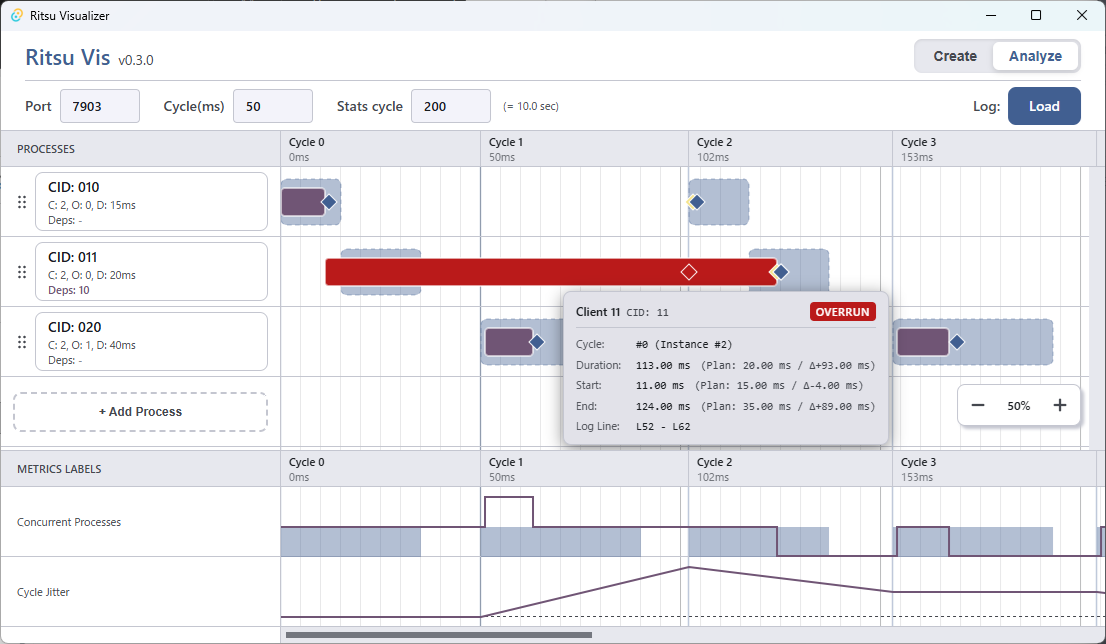
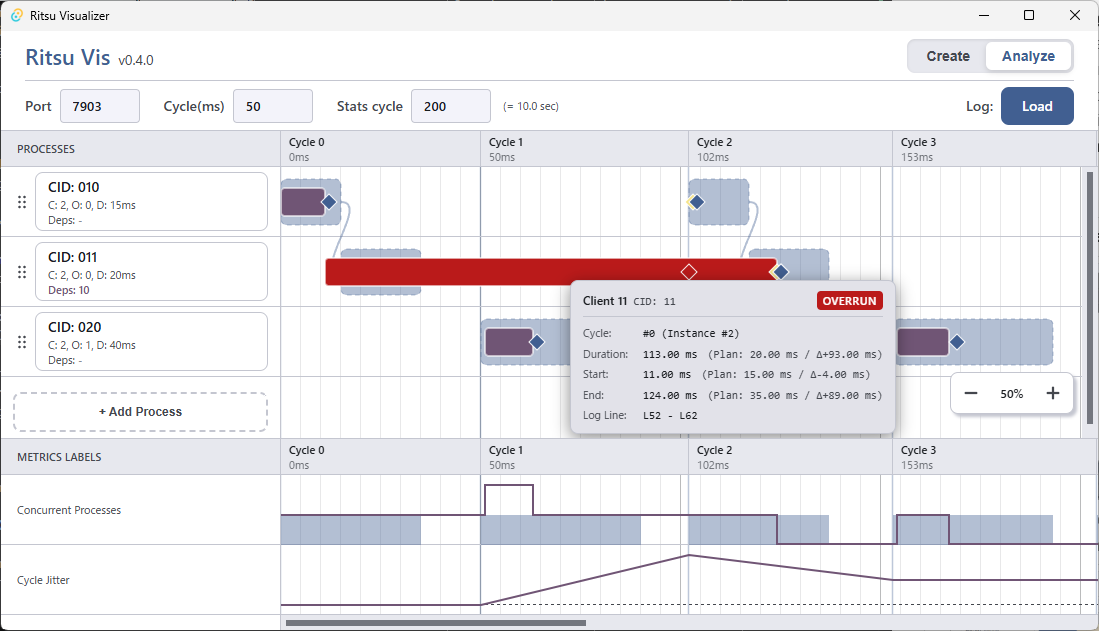
docs: refine README with design motivation and updated visualizer assets
Improve project landing documentation by articulating design philosophy, clarifying real-time execution scope, and updating visualizer highlights for the latest release.

- Clarify target real-time scope by highlighting predictable soft real-time coordination rather than hard real-time guarantees.
- Introduce the "Why Ritsu?" section to explain control-plane scheduling focus and clean integration alongside existing communication middleware.
- Refresh visualizer screenshots to showcase dependency arrow routing, actual execution overlay, and concurrency metrics from v0.4.0.
- Polish prerequisites and feature description phrasing.

diff --git a/README.md b/README.md
@@ -1,8 +1,17 @@
 # Ritsu: A Deterministic Process Scheduler
 
-A lightweight, deterministic process scheduler that manages user processes considering periodic cycles and dependencies.
+<p align="left">
+  <img src="https://img.shields.io/badge/License-Apache_2.0-blue.svg" alt="License">
+  <img src="https://img.shields.io/badge/Built_with-Rust-orange?logo=rust" alt="Rust">
+  <img src="https://img.shields.io/badge/GUI-Tauri-24C8DB?logo=tauri&logoColor=white" alt="Tauri">
+  <img src="https://img.shields.io/badge/Platform-Linux%20%7C%20Windows%20%7C%20macOS-lightgrey" alt="Platform">
+</p>
+
+A lightweight process scheduler that deterministically coordinates multi-process pipelines based on periodic cycles and DAG dependencies.
 
 ![Ritsu Visualizer Screenshot](docs/assets/rt-vis_screenshot.png)
+
+Note: Ritsu targets predictable, soft real-time coordination and reproducible execution order across processes, not hard real-time execution guarantees.
 
 ## Features
 
@@ -15,10 +24,22 @@ A lightweight, deterministic process scheduler that manages user processes consi
 - **Simulation & Visualization**: Advanced tools for system planning and scheduling analysis.
 
 **Visualizer Highlights:**
+
 | Create Mode | Analyze Mode |
 | :---: | :---: |
-| <img src="docs/assets/rt-vis_create-process-edit.png" width="350" /><br />Configure process periods, execution times, and dependencies. | <img src="docs/assets/rt-vis_analyze-actual-overlay.png" width="350" /><br />Overlay actual execution logs onto scheduled plans, inspecting timing deltas and exact log lines. |
-| <img src="docs/assets/rt-vis_create-realtime-validation.png" width="350" /><br />Interactive drag-and-drop editing immediately highlights deadline overruns and cascading delays. | <img src="docs/assets/rt-vis_analyze-concurrency.png" width="350" /><br />Track planned vs actual concurrent processes to identify system load peaks and bottlenecks. |
+| <img src="docs/assets/rt-vis_create-process-edit.png" width="350" /><br />Configure process periods, execution times, and dependencies interactively. | <img src="docs/assets/rt-vis_analyze-actual-overlay.png" width="350" /><br />Overlay actual execution logs onto scheduled plans to inspect timing deltas and execution lines. |
+| <img src="docs/assets/rt-vis_create-realtime-validation.png" width="350" /><br />Interactive drag-and-drop editing immediately highlights deadline overruns and cascading delays. | <img src="docs/assets/rt-vis_analyze-concurrency.png" width="350" /><br />Track planned vs actual concurrency to identify system load peaks and execution bottlenecks. |
+
+## Why Ritsu?
+
+Coordinating multi-language pipelines (such as C sensor drivers, Python ML inference, and Rust motion planners) often requires deterministic timing across heterogeneous processes without adding large runtime overhead or relying on fragile ad-hoc timer loops.
+
+Ritsu complements existing systems with a focused, lightweight approach:
+
+- **Minimal Footprint & Easy Integration**: Pure standard-library coordination over modular transports (UDP by default). Works cleanly alongside existing communication middleware, shared memory, or IPC, without imposing heavy dependencies or complex build systems on client processes.
+- **Control-Plane Focus**: Ritsu strictly manages process execution timing, DAG dependencies, and lifecycle states—leaving payload data transfer (such as ROS topics, shared memory, or IPC) decoupled and flexible.
+- **Deterministic & Fail-Safe**: Built-in state management handles deadline overruns and cycle skips predictably, allowing clients to transition safely into fail-safe states.
+- **Simulation & Verification First**: Design and inspect schedules visually using `rt-vis` before deploying to real hardware, and verify actual execution logs against your planned timeline.
 
 ## Quickstart
 
@@ -32,6 +53,8 @@ Simulates an Autonomous Mobile Robot (AMR) obstacle-avoidance pipeline where fiv
 [Sensor (C)] ──┬──> [AI-Vision (Python)] ──┬──> [Planner (Rust)] ──> [Motor (C)]
                └──> [Odometry (C)]       ──┘
 ```
+
+Prerequisites: Rust, Python, C/C++ Compiler with CMake
 
 1. **Run the demo** (builds and launches all 5 nodes in dedicated console windows automatically):
    - **Windows (PowerShell):**
@@ -55,7 +78,7 @@ For detailed architecture, prerequisites, and scenario specifications, see the [
 
 ## Process Scheduling
 
-This section describes how Ritsu schedules your processes using a sequence diagram.
+This section describes how Ritsu schedules processes using a sequence diagram.
 For more details, please refer to the [detailed documentation](./docs/README.md).
 
 ### Example Scenario: A -> (B, C)
